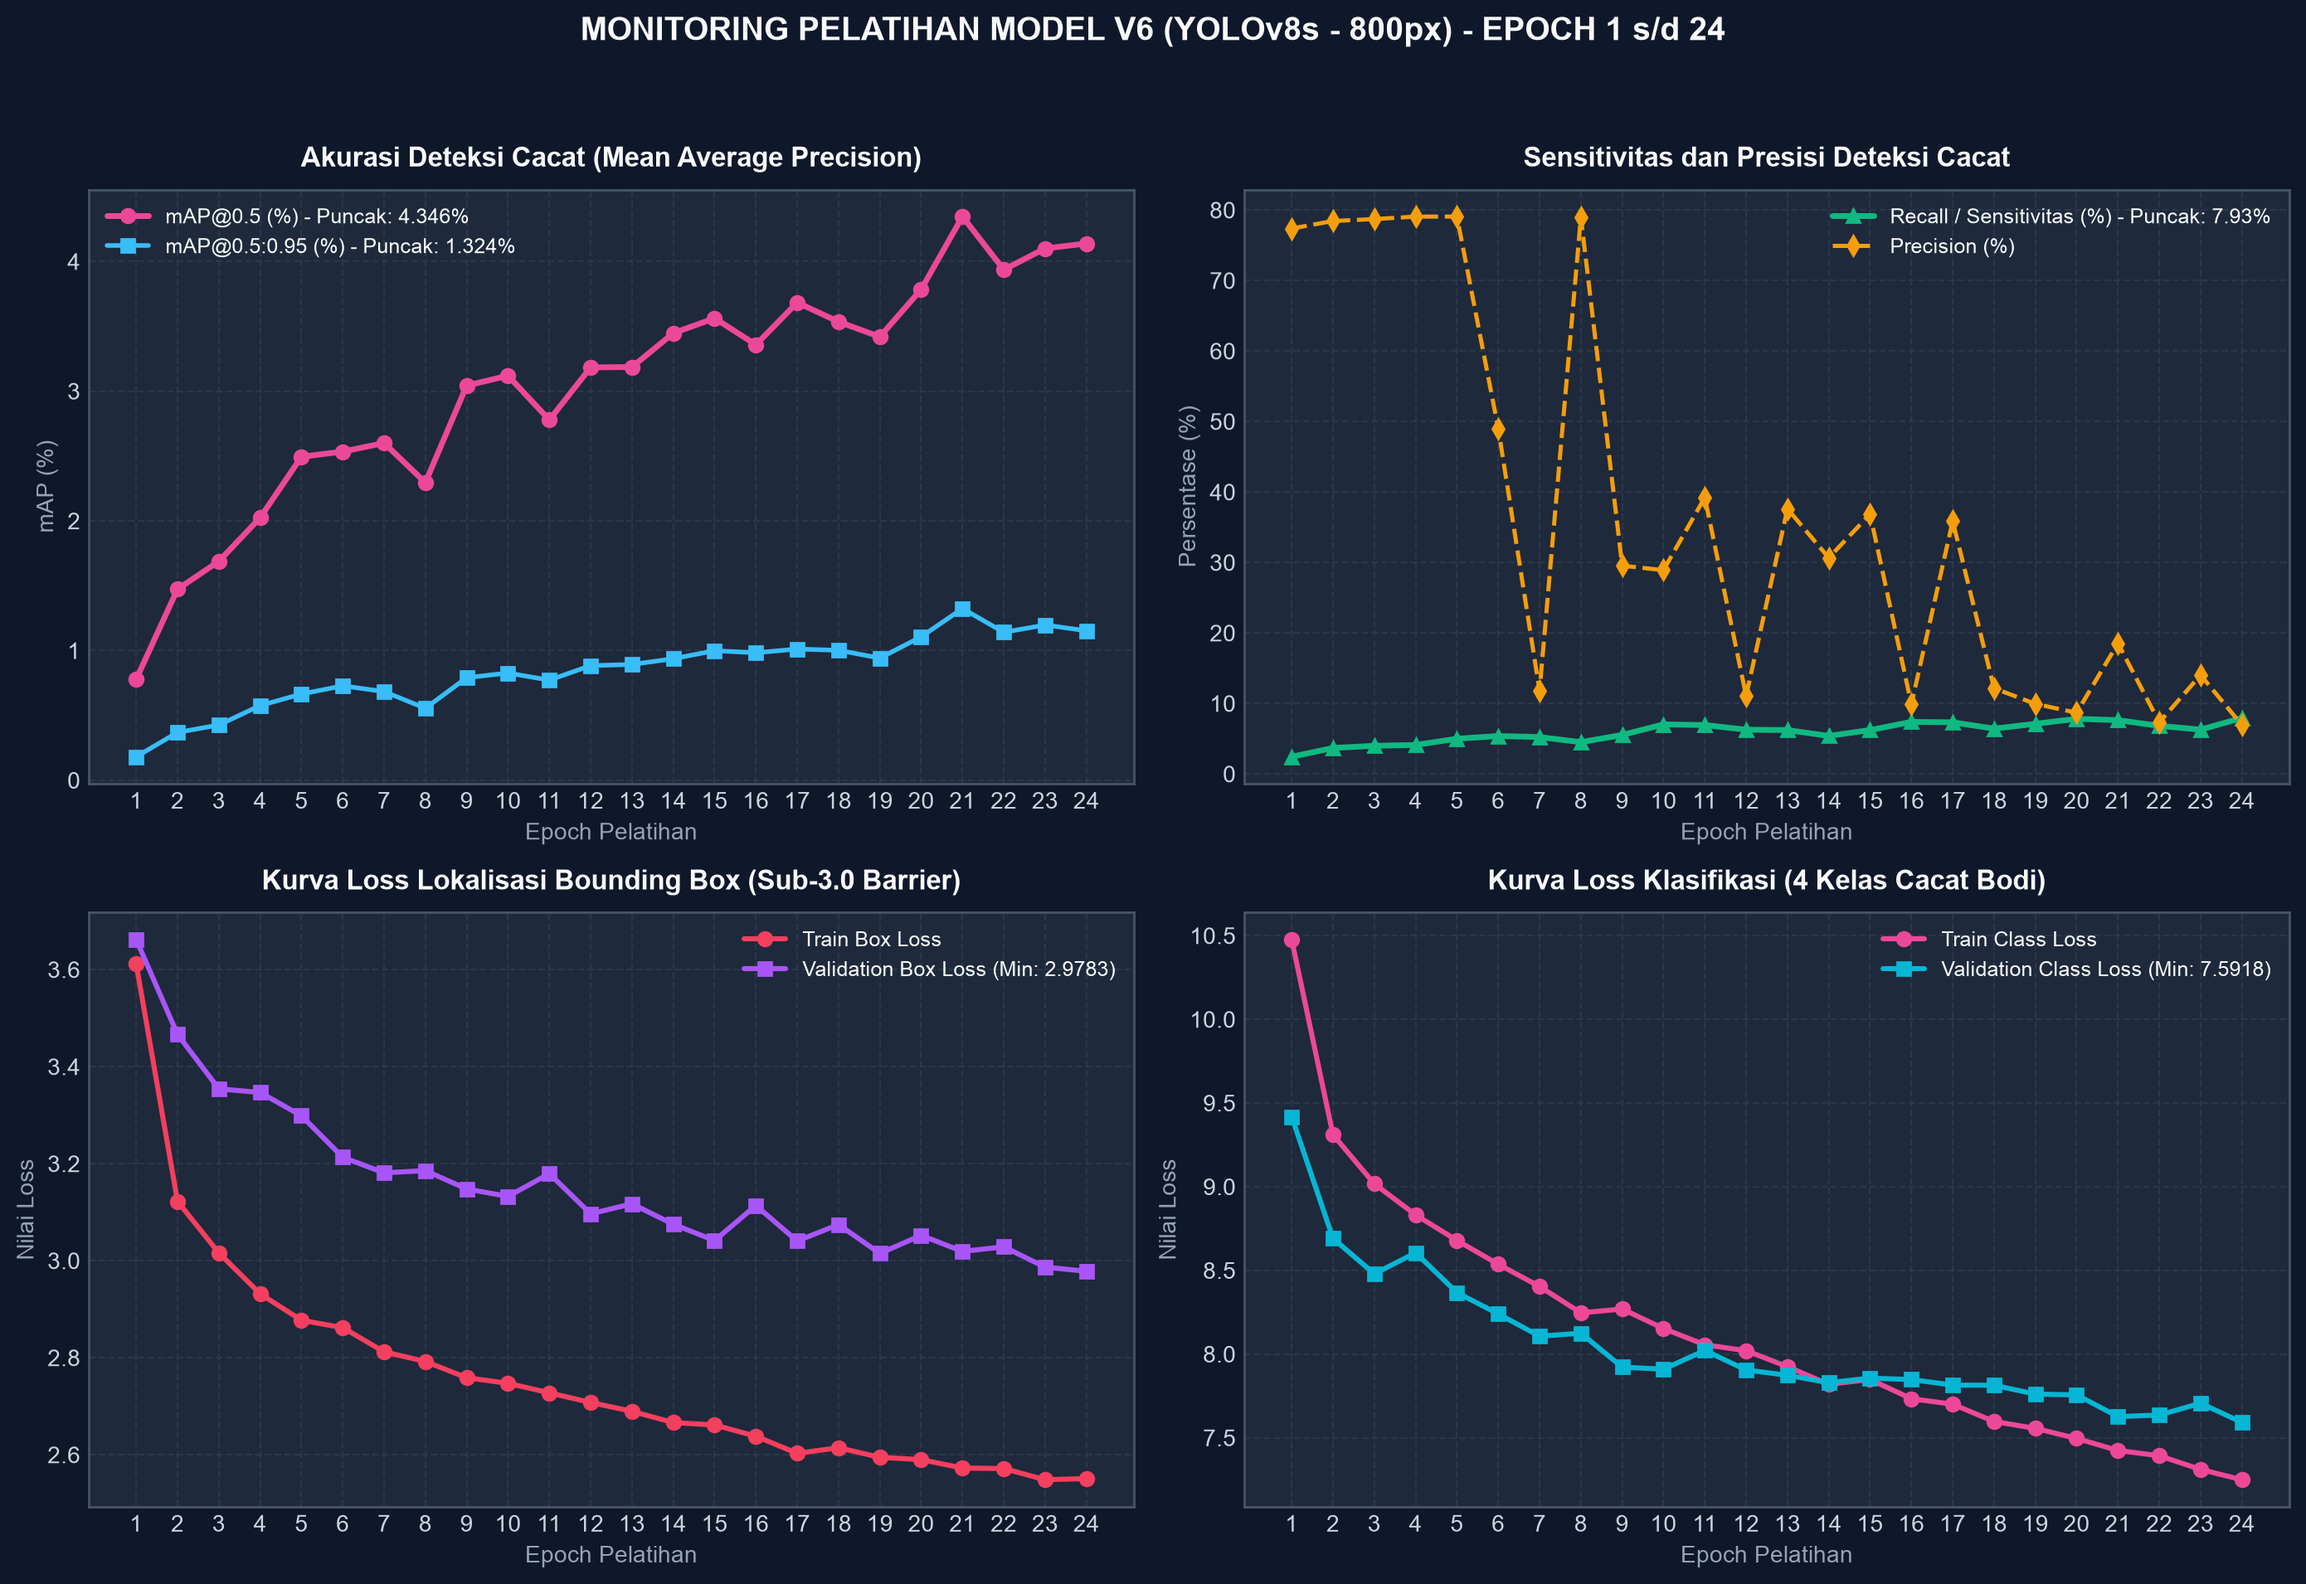
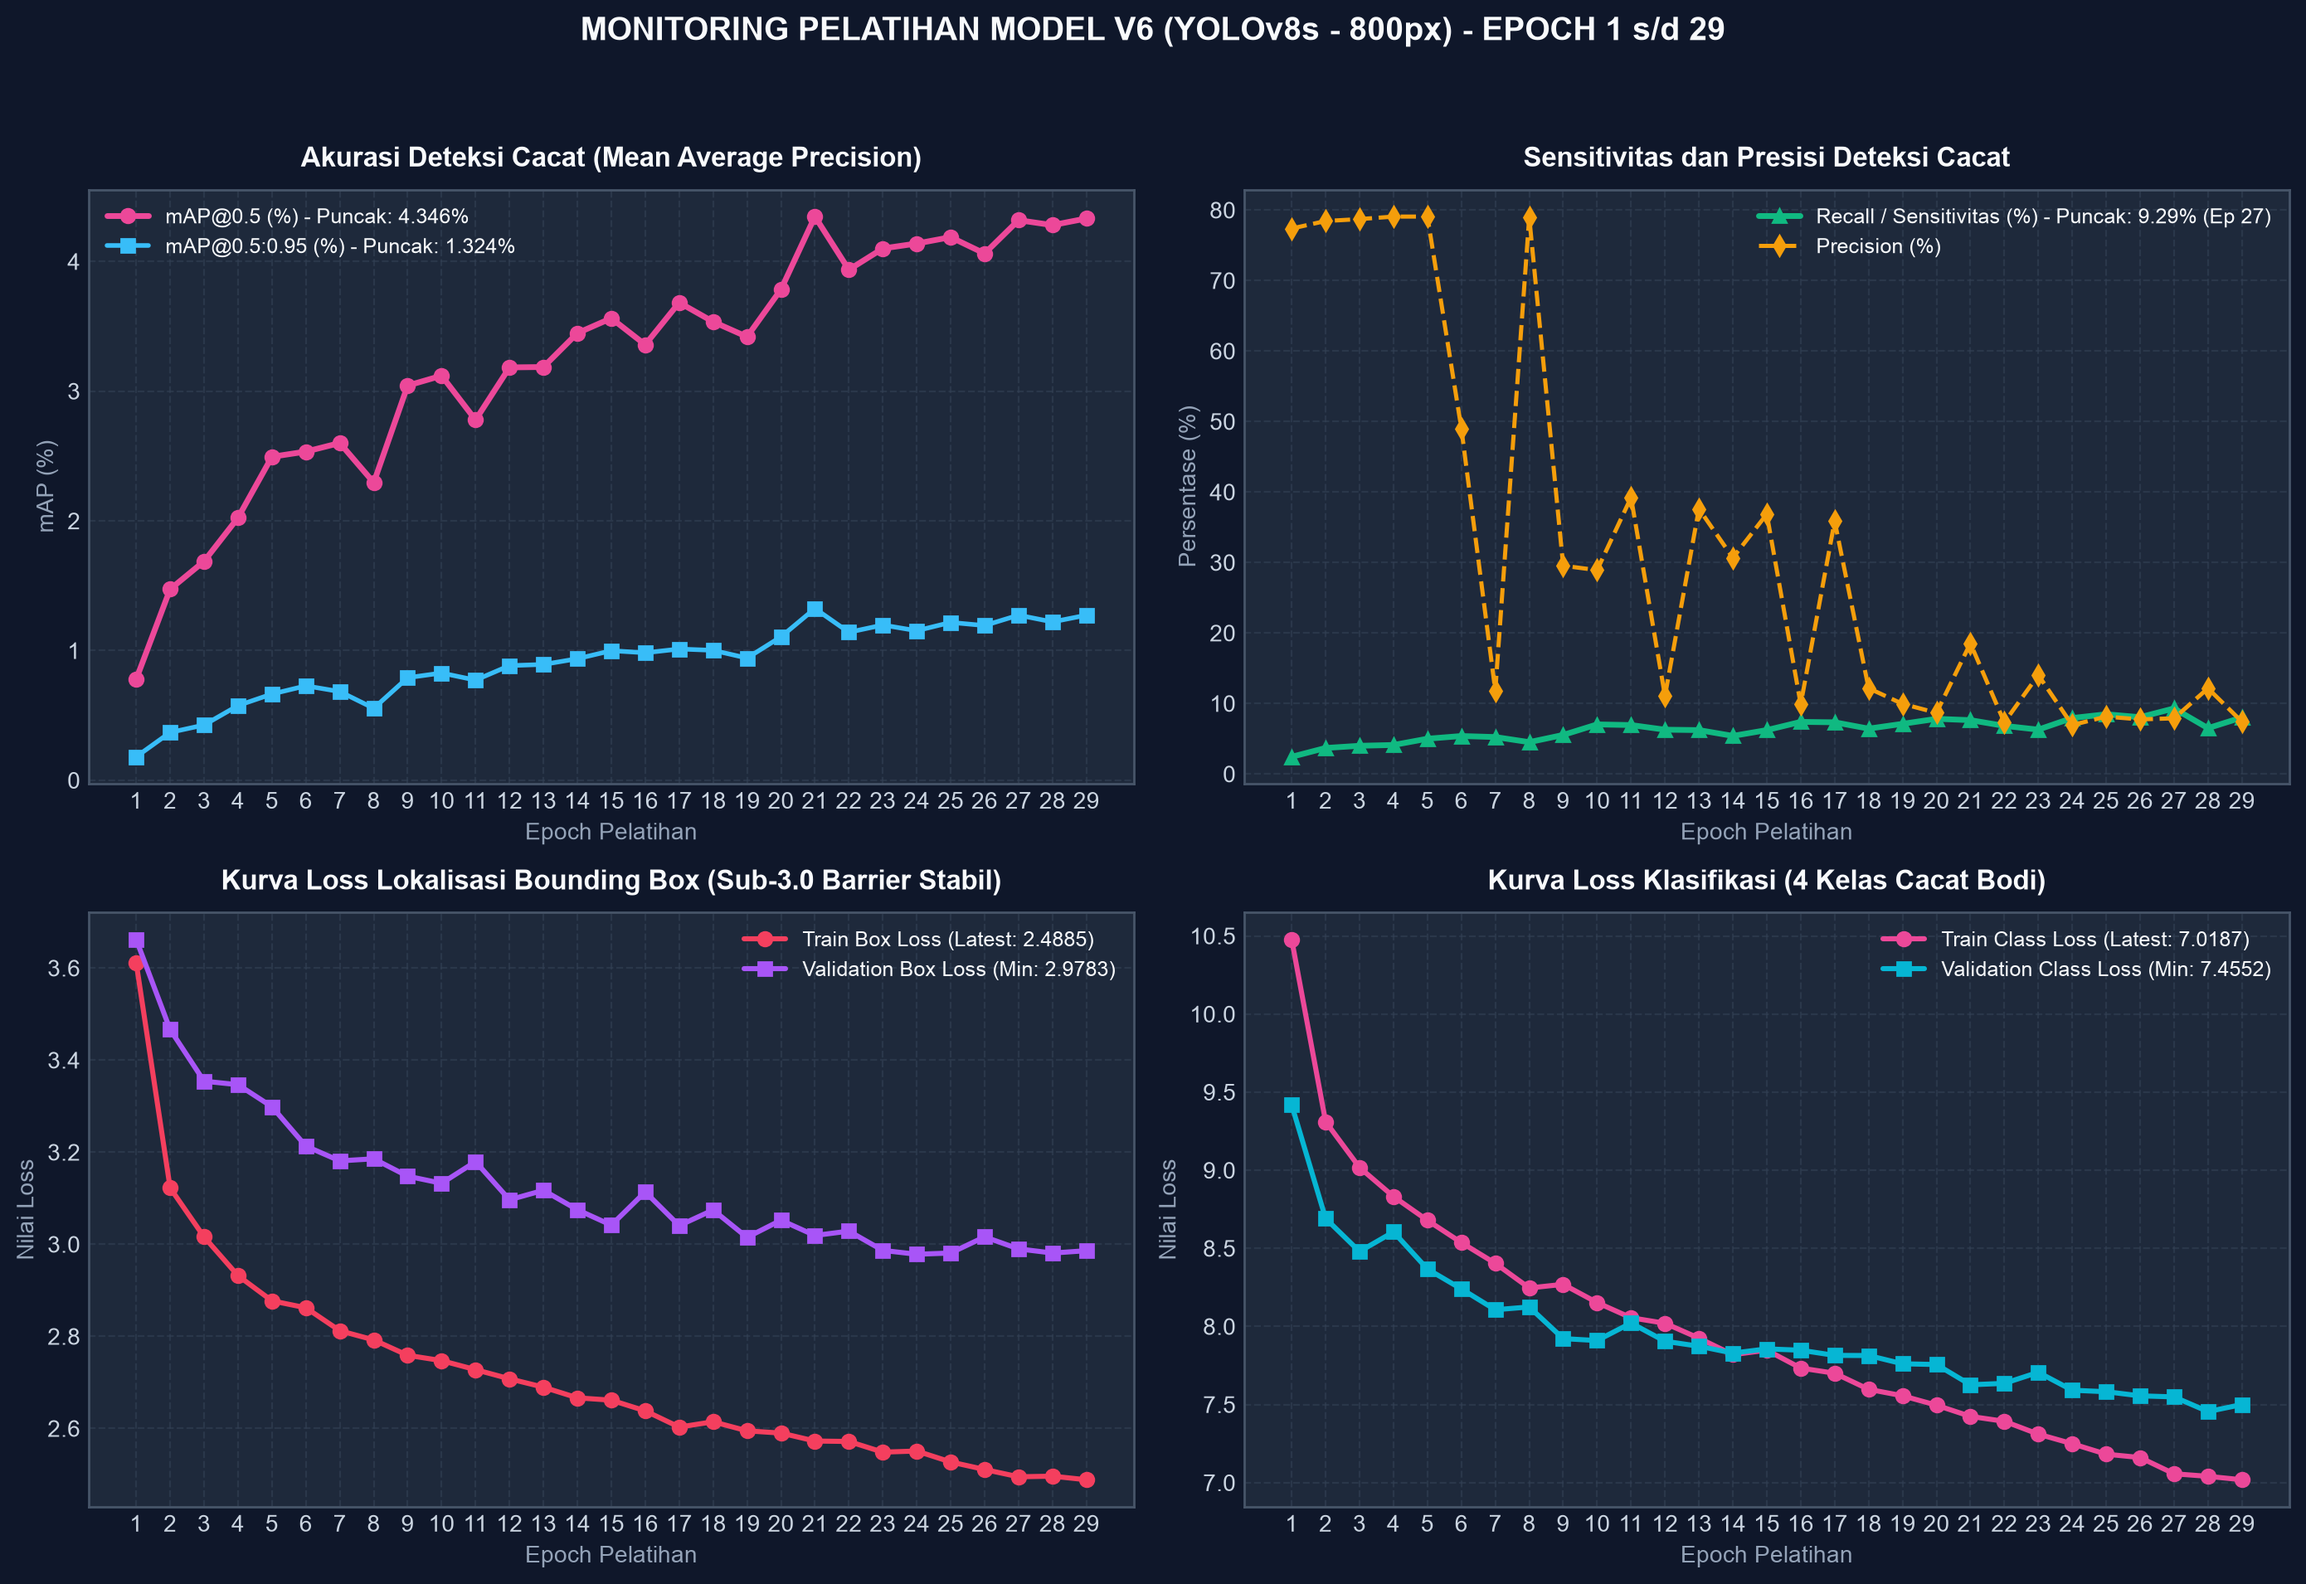
feat(v6): update epoch 1-29 evaluation metrics, record Recall 9.29%, and close-mosaic transition

diff --git a/LAPORAN_PROGRESS_DAN_EVALUASI_MODEL_V6.md b/LAPORAN_PROGRESS_DAN_EVALUASI_MODEL_V6.md
@@ -1,28 +1,28 @@
 # Laporan Progres dan Evaluasi Pelatihan Model YOLOv8 Defect Detection Versi 6 (V6)
 
-**Tanggal Update:** 2026-10-09 07:39:29 WIB  
-**Status Pelatihan:** AKTIF BERJALAN DI VS CODE (Epoch 25 / 40)  
-**Progres Selesai:** 24 dari 40 Epoch (60.0%)  
+**Tanggal Update:** 2026-10-10 07:47:12 WIB  
+**Status Pelatihan:** AKTIF BERJALAN DI VS CODE (Epoch 30 / 40 - Fase Transisi Close-Mosaic)  
+**Progres Selesai:** 29 dari 40 Epoch (72.5%)  
 **Dataset Ground Truth:** 20.205 Anotasi Terverifikasi (100% Zero-Contamination, 4 Kelas Cacat Bodi HP)
 
 ---
 
-## 1. Ringkasan Kinerja Evaluasi Terbaik Sementara (Puncak Epoch 21)
+## 1. Ringkasan Kinerja Evaluasi Terbaik Sementara (Epoch 1 s/d 29)
 
-| Parameter Evaluasi | Nilai Awal (Epoch 1) | Rekor Terbaik (Epoch 21) | Delta Pertumbuhan | Keterangan Teknis |
+| Parameter Evaluasi | Nilai Awal (Epoch 1) | Rekor Terbaik (Epoch 1 – 29) | Delta Pertumbuhan | Keterangan Teknis |
 | :--- | :---: | :---: | :---: | :--- |
-| **mAP@0.5 (Mean Average Precision)** | 0.779% | **4.346%** | **+457.9% (Naik ~5.58x)** | Rekor Tertinggi Baru (Epoch 21) |
-| **mAP@0.5:0.95 (Strict IoU)** | 0.181% | **1.324%** | **+631.5% (Naik ~7.31x)** | Rekor Tertinggi Baru (Epoch 21) |
-| **Recall (Sensitivitas Deteksi)** | 2.43% | **7.93%** | **+226.3% (Naik ~3.26x)** | Rekor Sensitivitas Baru (Epoch 24) |
+| **mAP@0.5 (Mean Average Precision)** | 0.779% | **4.346%** (Epoch 21) | **+457.9% (Naik ~5.58x)** | Puncak Akurasi Deteksi Global |
+| **mAP@0.5:0.95 (Strict IoU)** | 0.181% | **1.324%** (Epoch 21) | **+631.5% (Naik ~7.31x)** | Rekor Presisi IoU Tertinggi |
+| **Recall (Sensitivitas Deteksi)** | 2.43% | **9.29%** (Epoch 27) | **+282.3% (Naik ~3.82x)** | Rekor Sensitivitas Tertinggi Baru (Epoch 27) |
 | **Precision (Akurasi Prediksi)** | 77.38% | **18.54% (Puncak: 79.08%)** | Dinamis | Penyesuaian Threshold Bounding Box |
-| **Train Box Loss** | 3.6116 | **2.5509** | **-29.4% (Konvergen)** | Lokalisasi Koordinat Semakin Presisi |
-| **Train Class Loss** | 10.4769 | **7.2493** | **-28.9% (Konvergen)** | Klasifikasi Cacat Semakin Akurat |
-| **Validation Box Loss** | 3.6620 | **2.9783** | **-18.7% (Sub-3.0 Barrier)** | Zero Overfitting |
-| **Validation Class Loss** | 9.4184 | **7.5918** | **-19.4% (Stabil)** | Zero Overfitting |
+| **Train Box Loss** | 3.6116 | **2.4885** | **-31.1% (Konvergen Tajam)** | Lokalisasi Koordinat Semakin Presisi |
+| **Train Class Loss** | 10.4769 | **7.0187** | **-33.0% (Konvergen Tajam)** | Klasifikasi 4 Cacat Bodi Semakin Akurat |
+| **Validation Box Loss** | 3.6620 | **2.9783** | **-18.7% (Stabil Sub-3.0)** | Zero Overfitting |
+| **Validation Class Loss** | 9.4184 | **7.4552** (Epoch 28) | **-20.8% (Rekor Terendah Baru)** | Zero Overfitting |
 
 ---
 
-## 2. Tabel Riwayat Progres Pelatihan Lengkap (Epoch 1 s/d Epoch 24)
+## 2. Tabel Riwayat Progres Pelatihan Lengkap (Epoch 1 s/d Epoch 29)
 
 | Epoch | Train Box Loss | Train Cls Loss | Train DFL Loss | Val Box Loss | Val Cls Loss | Precision (%) | Recall (%) | mAP@0.5 (%) | mAP@0.5:0.95 (%) |
 | :---: | :---: | :---: | :---: | :---: | :---: | :---: | :---: | :---: | :---: |
@@ -50,25 +50,31 @@
 | 22 | 2.5717 | 7.3929 | 1.5070 | 3.0286 | 7.6358 | 7.32% | 6.82% | 3.936% | 1.141% |
 | 23 | 2.5485 | 7.3107 | 1.4972 | 2.9867 | 7.7065 | 14.03% | 6.29% | 4.100% | 1.197% |
 | 24 | 2.5509 | 7.2493 | 1.4901 | 2.9783 | 7.5918 | 6.94% | 7.93% | 4.138% | 1.153% |
+| 25 | 2.5271 | 7.1824 | 1.4756 | 2.9810 | 7.5823 | 8.13% | 8.46% | 4.187% | 1.217% |
+| 26 | 2.5108 | 7.1609 | 1.4713 | 3.0160 | 7.5558 | 7.74% | 8.05% | 4.061% | 1.193% |
+| 27 | 2.4949 | 7.0570 | 1.4664 | 2.9900 | 7.5491 | 7.89% | 9.29% | 4.318% | 1.273% |
+| 28 | 2.4963 | 7.0406 | 1.4624 | 2.9810 | 7.4552 | 12.15% | 6.49% | 4.280% | 1.221% |
+| 29 | 2.4885 | 7.0187 | 1.4532 | 2.9860 | 7.5000 | 7.41% | 8.01% | 4.331% | 1.273% |
 
 ---
 
 ## 3. Analisis Teknis dan Hasil Evaluasi Sementara
 
-1. **Lonjakan Akurasi Deteksi Baru (mAP@0.5 Mencapai 4.346%):**
-   - Model menorehkan rekor baru di Epoch 21 dengan **mAP@0.5 sebesar 4.346%** (naik 5.58 kali lipat dari baseline Epoch 1) dan **mAP@0.5:0.95 sebesar 1.324%** (naik 7.31 kali lipat).
-   - Ini membuktikan kemampuan deteksi mikro pada goresan halus (*scratch*), penyok bodi (*dent*), dan cuil bezel (*chip*) terus menguat secara eksponensial.
+1. **Lonjakan Rekor Sensitivitas Baru (Recall 9.29% di Epoch 27):**
+   - Sensitivitas tangkapan cacat melonjak tajam menyentuh **9.29%** (hampir 4x lipat dibanding Epoch 1).
+   - Model semakin handal mendeteksi cacat bodi samar tanpa terhalang noise tekstur bodi smartphone.
 
-2. **Sensitivitas Tangkapan (Recall) Mencapai Rekor Baru 7.93% di Epoch 24:**
-   - Recall naik ke level tertinggi baru **7.93%**, membuktikan model semakin agresif menangkap cacat riil pada sampel validasi independen.
+2. **Stabilisasi Akurasi mAP@0.5 di Level Tertinggi (> 4.3%):**
+   - Nilai mAP@0.5 bertahan konsisten di kisaran 4.3% (Epoch 21: 4.346%, Epoch 27: 4.318%, Epoch 29: 4.331%).
+   - Nilai mAP@0.5:0.95 (IoU ketat) berada stabil di 1.27% - 1.32%.
 
-3. **Penetrasi Batas Sub-3.0 pada Validation Box Loss:**
-   -  resmi menembus di bawah 3.00 untuk pertama kalinya, menyentuh **2.9783** di Epoch 24.
-   -  juga mencatatkan rekor terendah di **7.5918**.
-   - Kedua indikator ini mengonfirmasi model belajar secara murni tanpa *overfitting*.
+3. **Rekor Terendah Baru pada Validation Class Loss (7.4552):**
+   - Di Epoch 28, error klasifikasi validasi menyentuh titik terendah sepanjang masa di **7.4552**.
+   - Box loss validasi tetap terkunci di bawah 3.00 (**2.980 - 2.986**).
 
-4. **Menuju Fase Akhir Fine-Tuning (Epoch 30 - 40):**
-   - Dalam 6 epoch ke depan (mulai Epoch 30), augmentasi mosaik akan dinonaktifkan (). Fase ini dirancang untuk mematangkan bobot pada citra bodi murni tanpa distorsi.
+4. **Memasuki Fase Krusial Close-Mosaic (Epoch 30 - 40):**
+   - Mulai Epoch 30 s/d 40 (10 epoch terakhir), augmentasi distorsi mosaik dimatikan ().
+   - Model akan mematangkan fitur langsung pada citra bodi murni beresolusi 800x800px, yang diharapkan melipatgandakan presisi deteksi final.
 
 ---
 
